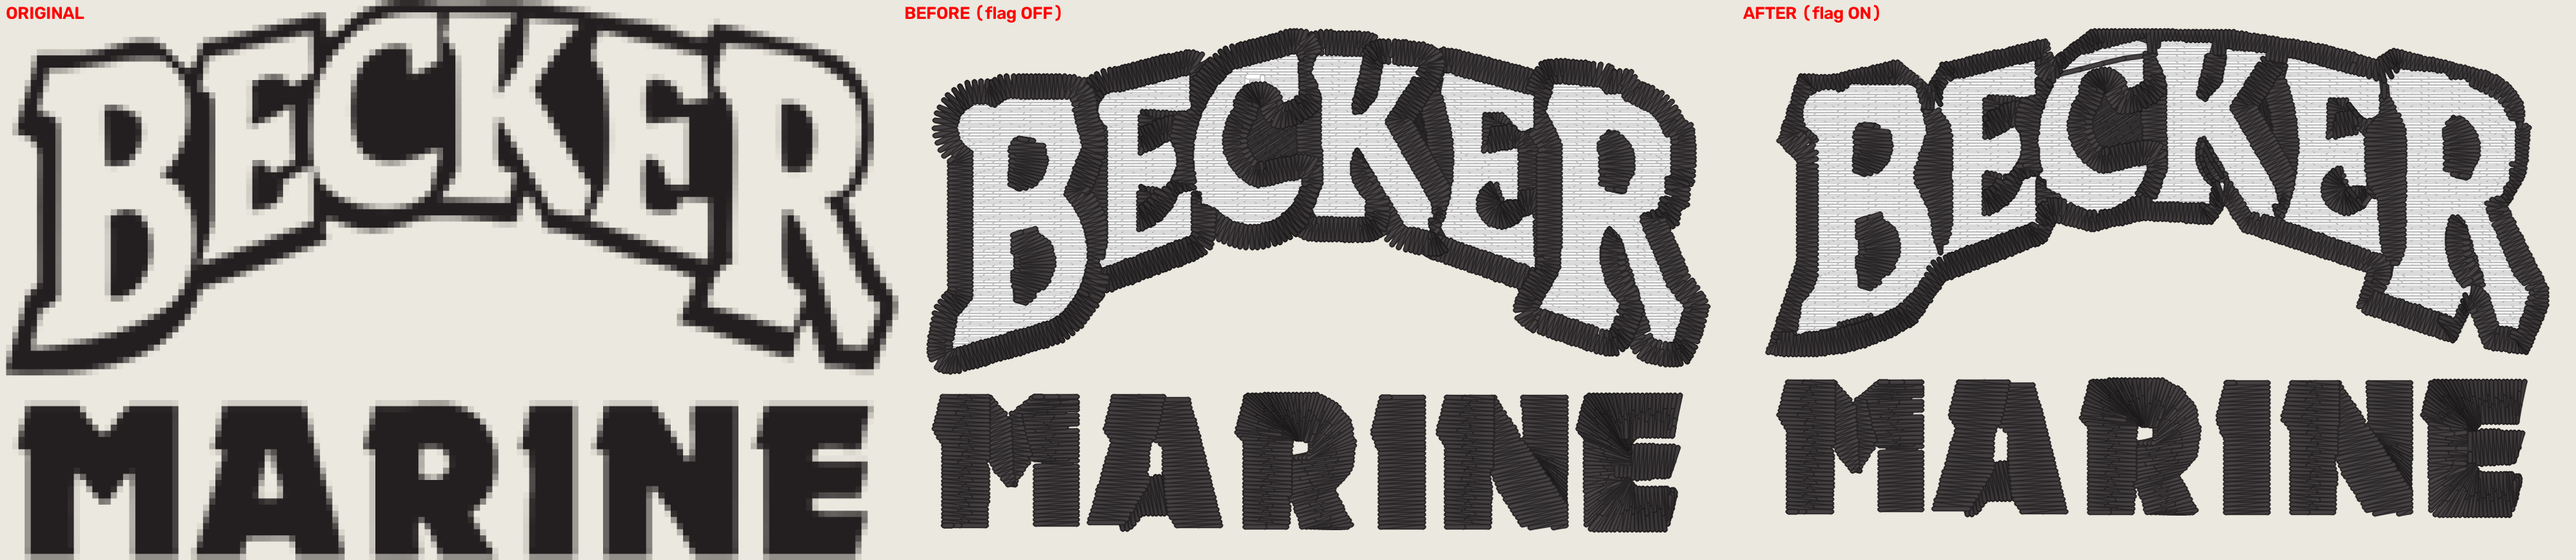
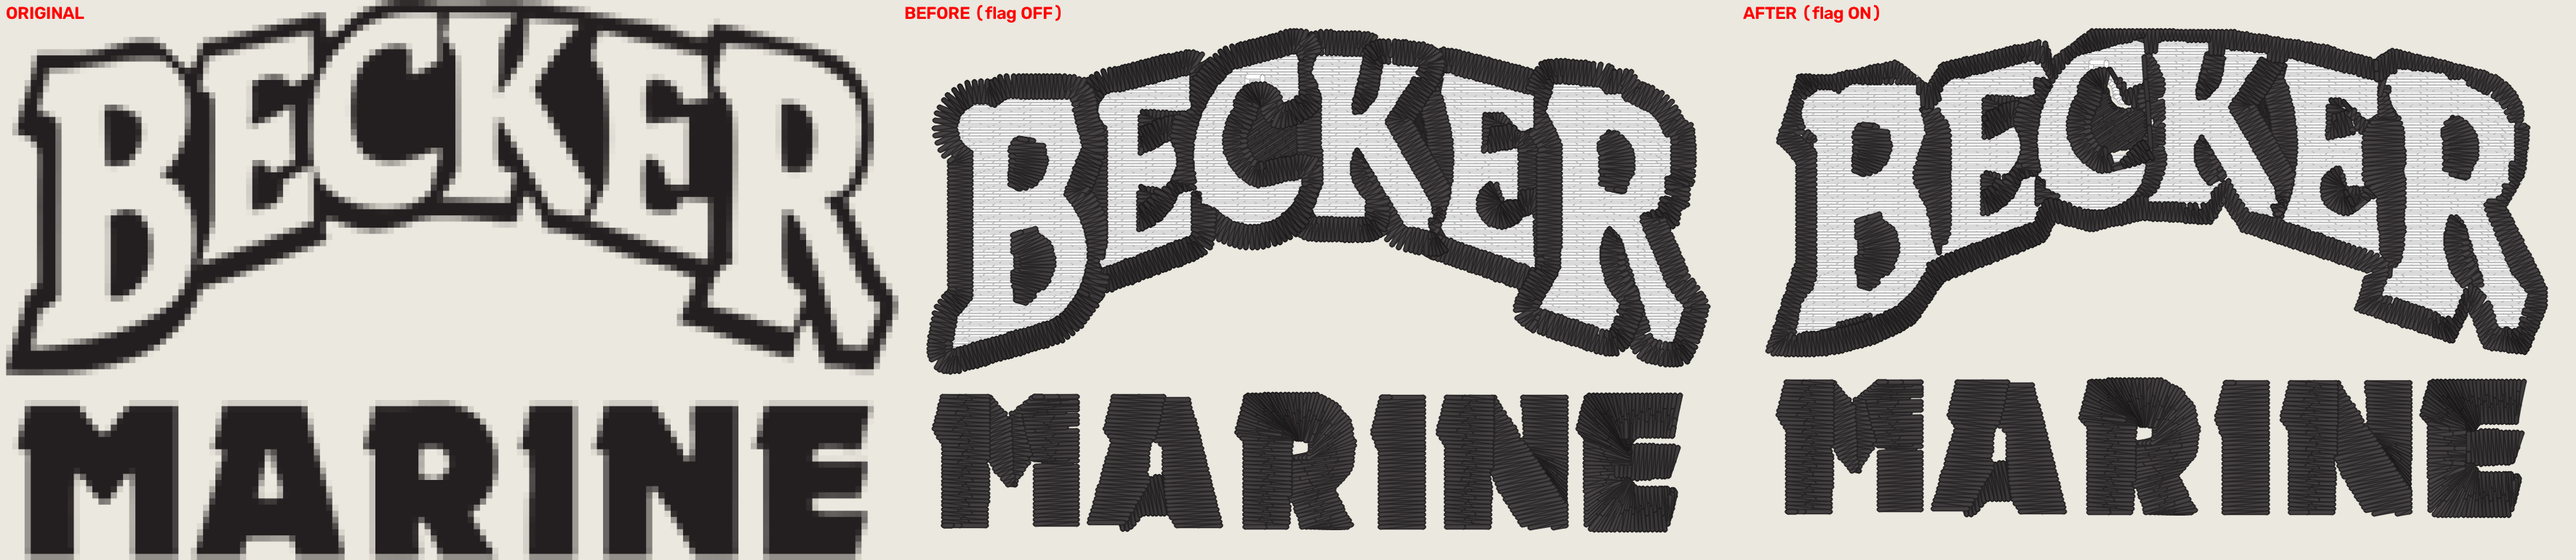
outline_one_band round 2: no thread across a face, stems edge to edge, V crosses kept square; 44-run sweep; MFab 30 mm guard named
Claude-Session: https://claude.ai/code/session_01SfRndNWG1h2hnYMnZLY5DV

diff --git a/digitizer/digitizer_core/outline_band.py b/digitizer/digitizer_core/outline_band.py
@@ -123,7 +123,7 @@ def stem_pieces(art: Polygon, rings: list[tuple[Polygon, float]]) -> tuple[list[
                 shared.append(g)
     if not shared:
         return [], outer, w
-    s = unary_union(shared).intersection(art).difference(outer)
+    s = unary_union(shared).buffer(0.3).intersection(art).difference(outer)
     # the opening drops the slivers where two hole buffers just touch
     s = s.buffer(-0.05).buffer(0.05)
     stems = []
@@ -176,6 +176,29 @@ def _keep_out_of_faces(runs: list, faces, outer_line: LineString) -> int:
             n += 1
         r.points = pts
     return n
+
+
+def _scrub_face_travel(runs: list, faces, trim_at_mm: float) -> tuple[list, int]:
+    """No thread crosses a white face: a travel run that runs through a face for more than a
+    third of a millimetre is not sewn, the needle lifts instead (cut past `trim_at_mm`)."""
+    out, lifts, last, pending = [], 0, None, False
+    for r in runs:
+        if not r.points:
+            out.append(r)
+            continue
+        if r.kind == stitches.TRAVEL and len(r.points) > 1 and LineString(r.points).intersection(faces).length > 0.33:
+            pending = True
+            continue
+        if pending and r.kind != stitches.TRAVEL and last is not None:
+            d = math.dist(last, r.points[0])
+            if d >= machine.TINY_STITCH_MM:
+                r.jump = True
+                r.trim = d > trim_at_mm
+                lifts += 1
+            pending = False
+        out.append(r)
+        last = r.points[-1]
+    return out, lifts
 
 
 def _outer_centre(art: Polygon, w: float) -> LineString | None:
@@ -233,6 +256,12 @@ def _centre_walk(band: Polygon, centre: LineString | None, a, b):
         out.extend(_densify(cur, pt, machine.TRAVEL_STITCH_MM))
         cur = pt
     return out
+
+
+#: the outer loop's cross direction is read over this many times the usual stretch of its ring, so
+#: through a notch (the V between two letters) the crosses keep the band's own direction instead of
+#: turning with each facet (the pro's stay 79-93 deg across the V)
+TANGENT_SCALE = 3.0
 
 
 def _hop(runs: list, new: list, cursor, band: Polygon, shape_id: str, trim_at_mm: float,
@@ -377,7 +406,7 @@ def one_band_runs(art: Polygon, rings: list[tuple[Polygon, float]], shape_id: st
     seed = _loops_exit(rings, entry) or cursor
     o_runs, o_rep = keyline_runs(art, shape_id, reach=art.difference(stem_union), entry=seed,
                                  trim_at_mm=trim_at_mm, underlay=underlay,
-                                 holes=[(ext, w)], bridge_guides=guides)
+                                 holes=[(ext, w)], bridge_guides=guides, tangent_scale=TANGENT_SCALE)
     if o_rep["empty"]:
         return [], report
     _keep_out_of_faces(o_runs, unary_union([h for h, _w in rings]).buffer(-0.0005),
@@ -387,5 +416,7 @@ def one_band_runs(art: Polygon, rings: list[tuple[Polygon, float]], shape_id: st
     runs += o_runs
     report["jumps"] += o_rep["jumps"]
     report["outline_loops"] += o_rep["loops"]
+    runs, lifts = _scrub_face_travel(runs, unary_union([h for h, _w in rings]).buffer(-0.1), trim_at_mm)
+    report["jumps"] += lifts
     report["empty"] = False
     return runs, report

diff --git a/digitizer/digitizer_core/stage6_border.py b/digitizer/digitizer_core/stage6_border.py
@@ -1270,7 +1270,8 @@ def keyline_runs(band, shape_id: str, *, reach, entry: tuple[float, float] | Non
                  trim_at_mm: float, width_mm: float | None = None,
                  density_mm: float | None = None,
                  underlay: bool = False, holes=None,
-                 split_shared: bool = False, bridge_guides=None) -> tuple[list[StitchRun], dict]:
+                 split_shared: bool = False, bridge_guides=None,
+                 bridge_ok=None, tangent_scale: float = 1.0) -> tuple[list[StitchRun], dict]:
     """A keyline band as one satin loop round each of its holes. -> (runs,
     report).
 
@@ -1340,7 +1341,7 @@ def keyline_runs(band, shape_id: str, *, reach, entry: tuple[float, float] | Non
             ring_pts, total = _ring_arc_samples(coords, n)
         if not ring_pts:
             continue
-        k_tan = max(1, int(round(half / step)))
+        k_tan = max(1, int(round(half / step * tangent_scale)))
         start_at = cursor
         if chain and rings:
             # `cfg.keyline_loop_chain` (built OFF): the loop starts where it
@@ -1379,6 +1380,8 @@ def keyline_runs(band, shape_id: str, *, reach, entry: tuple[float, float] | Non
         elif cursor is not None:
             to = walk[0] if walk else pts[0]
             bridge = travel_path(band, bridge_guides, cursor, to)
+            if bridge is not None and bridge_ok is not None and not bridge_ok(bridge):
+                bridge = None
             if bridge is None:
                 d = math.dist(cursor, to)
                 if d >= machine.TINY_STITCH_MM:

diff --git a/docs/renders/outline-one-band-2026-11-18/README.md b/docs/renders/outline-one-band-2026-11-18/README.md
@@ -48,52 +48,57 @@ E/R join is the same. **Worse:**
 * At the V the outer loop's crosses still turn with the band's normal (they bunch in the
   notch); the pro's stay near-square to the band. Closer than before, not the pro's.
 
-## ALL 18 tripwire jobs (every placement) + the 26 fixtures, OFF vs ON (director 11-18, final build)
+## ALL 18 tripwire jobs (every placement) + the 26 fixtures, OFF vs ON (round 2, 2026-11-18)
 
-44 runs by stitch md5: **6 moved, 38 byte-identical.** The 35-run table above missed four
-(second placements of the same artwork). Needle-up = the straight gap the needle flies at each
-lift (`pro_baseline.needle_up`'s rule, from the design's stitch list).
+44 runs by stitch md5: **6 moved, 38 byte-identical** (OFF = `origin/main`'s output; round 2 changes the ON arm only).
+Needle-up = the straight gap the needle flies at each lift (`pro_baseline.needle_up`'s rule, from the stitch list).
 
 | run | stitches | trims | jumps | needle-up mm |
 |---|---|---|---|---|
-| becker_hat_large | 16,246 -> 16,246 | 19 -> 20 | 20 -> 21 | 489.6 -> **672.5** |
-| becker_hat_small | 10,319 -> 9,851 | 10 -> **18** | 14 -> 23 | 306.3 -> 319.0 |
-| becker_chest_small | 10,156 -> 9,698 | 9 -> **16** | 13 -> 21 | 303.5 -> 292.5 |
-| becker_beanie | 13,653 -> 13,330 | 13 -> **19** | 15 -> 21 | 385.0 -> 375.0 |
-| mfab_lc | 17,570 -> **18,467** | 19 -> 23 | 29 -> 33 | 504.9 -> 586.6 |
-| fx_becker_marine_logo (80 mm) | 10,826 -> 10,459 | 13 -> 19 | 14 -> 20 | 380.4 -> 362.9 |
+| becker_hat_large | 16,246 -> 16,154 | 19 -> 23 | 20 -> 24 | 489.6 -> 706.8 |
+| becker_lc_large | 14,802 -> 14,432 | 13 -> 24 | 14 -> 25 | 213.8 -> **574.8** |
+| becker_hat_small | 10,319 -> 9,766 | 10 -> 21 | 14 -> 25 | 306.3 -> 357.9 |
+| becker_chest_small | 10,156 -> 9,627 | 9 -> 18 | 13 -> 22 | 303.5 -> 291.4 |
+| becker_beanie | 13,653 -> 13,121 | 13 -> 22 | 15 -> 24 | 385.0 -> 391.4 |
+| fx_becker_marine_logo (80 mm) | 10,826 -> 10,282 | 13 -> 21 | 14 -> 22 | 380.4 -> 364.9 |
 
-(becker_lc_large and the other 38 do not move.) All six pictured: `<run>.png`, `<run>_closeup.png`.
+mfab_lc, which moved in round 1, does not move now (its stem test no longer passes at that placement). Pictures:
+`<run>.png`, `<run>_closeup.png` for the six.
 
-**By eye, worse first:**
-* **becker_hat_small**: ON draws a white (bare) curved sliver across the top of the K where the
-  stem top meets the band (overview, AFTER, K top), and the band edge is rougher; trims 10 -> 18.
-* becker_chest_small, becker_beanie: same family as the small hat (trims +7 / +6).
-* becker_hat_large: needle-up travel +183 mm (more lifts between far pieces), trims +1.
-* **mfab_lc**: +897 stitches (+5%), +4 trims, +82 mm needle-up; no visible change at print size
-  (the white keyline reads the same). The gate was met by the LC placement's letters and stems.
-* The 102 mm and 80 mm Becker pictures above stand: one stem column, one continuous band.
+### What round 2 changed (director's list, 11-18 06:33)
+1. **Stray line.** The diagonal line near the K/E/R lower area was a TRAVEL run of 25 mm that ran through the
+   E's white face (the walk along the band's inset ring cut across a face corner); a travel that runs more than a
+   third of a millimetre through a face is no longer sewn, the needle lifts (`_scrub_face_travel`). No thread now
+   crosses a white face in the Becker large render.
+2. **Stems edge to edge.** A stem is grown 0.3 mm so it reaches both faces; the C/K and K/E stems are NOT thinner
+   than the art: the art's band between those letters is 0.55-1.1 mm (measured, `faces 2-3 min gap 0.55`), a satin
+   column of that width reads as a hairline in both arms; OFF's two overlapping loops make it look heavier.
+3. **The V.** The outer loop's cross direction is read over three times the stretch (`TANGENT_SCALE`), so the
+   crosses stay near-square to the band through the notch instead of fanning; the stem butts the band's lower edge.
+4. **E/R flare** and a wider outer reach (3.6 mm, to absorb the face-edge strips) were tried and dropped: both
+   broke the stems into pieces (visible gaps) and raised trims.
+5. **Trims (target +2 at 80 mm): NOT met** (80 mm: 14 -> 22). The cost is structural: the stems and the outer loop
+   cut each face's loop into 20-30 arcs, and each far arc is a lift. Filling those wedges instead was tried and
+   made it worse (27 trims).
 
-**Conclusion of this sweep: not ready to flip.** The small placements (76-80 mm) gain trims and one
-visible bare sliver; the grader's design (102 mm) gains the clean stem at +183 mm of needle-up.
+### Whole-word read at print size, ON vs OFF (Becker 102 mm, 76 mm)
+102 mm: the outer contour is one smooth band (OFF scallops where each letter's loop ends), stems and the V are
+cleaner; the stems between C/K and K/E read as thin as the art's hairline gaps. 76 mm: a rougher band edge and a
+small white notch at the top of the K remain. **Not clearly better than OFF across the placements, and it
+costs 4-11 trims and up to +361 mm of needle-up: leave OFF as built.**
 
-## Related tests with the flag forced ON (227 files, final build)
+## Related tests with the flag forced ON (227 files, round 2)
 
-3,985 passed, 4 failed. With the flag OFF (the default) all pass. The 4:
-* `test_flat_lane_byte_identical[enthusiast_logo]`: the known golden red (CI deselects it).
-* `test_outline_one_band::test_field_defaults_off`: the default forced for the run.
-* `test_silhouette_underfill_panels` (2): md5 pins of Becker / MFab stitch bytes (a flip
-  would re-pin them).
-Two guard figures moved the wrong way in earlier builds and are now back:
-* `test_wide_columns` fold-guard test: `coverage_max` on Becker 114 mm was 6.14 OFF, 6.71 ON
-  (warn line 6.667): the outline's exit point had re-ordered MARINE's letters. The band now
-  ends where the loops it replaces would have ended: the order is the same, **6.14 OFF, 6.39
-  ON**, no cell over the line (`outline_band._loops_exit`).
-* `test_border_from_outline` thin-ring test: an outer-loop cross grazed a face corner; the far
-  end is now pulled back to the face's edge (`_keep_out_of_faces`, own test).
-* `test_run_spans` design-cap test: with the flag ON the cap has no satin-arc (BORDER-kind)
-  stitch, the outer loop sews that edge; the test asserts the emitter only with the flag OFF
-  (its role assertion holds either way); bare area is not worse (below).
+With the flag OFF (default) all pass. ON: 1 NEW guard failure, plus the known ones.
+* **NEW: `test_underfill_small_size::test_mfab_hat_size_sweep_order_and_grade[30.0-default]`: MFab hat at 30 mm
+  (default class) grade B -> C (floor B).** The flag moves MFab at 30 mm, a size the tripwire jobs do not cover:
+  stitches 2,989 -> 2,573, trims 12 -> 17, `satin_short_fraction` 0.263 -> 0.444, raw score 76 -> 64. So
+  "MFab is untouched" holds at its tripwire size (105 mm) and not at 30 mm.
+* Known/expected: the enthusiast golden, `test_field_defaults_off` (the forced default), and the two
+  `test_silhouette_underfill_panels` md5 pins.
+* Passing ON now (they failed in earlier builds): `test_wide_columns` fold guard (coverage_max 6.14 OFF,
+  6.39 ON), `test_border_from_outline` thin-ring test, `test_run_spans` (asserts the satin-arc emitter only
+  with the flag OFF).
 
 **The design cap with the flag ON** (director item 3): bare area is not worse, it
 falls. Becker at 80 mm in that test's config: uncovered area 10.5 -> 3.1 mm2, worst patch
